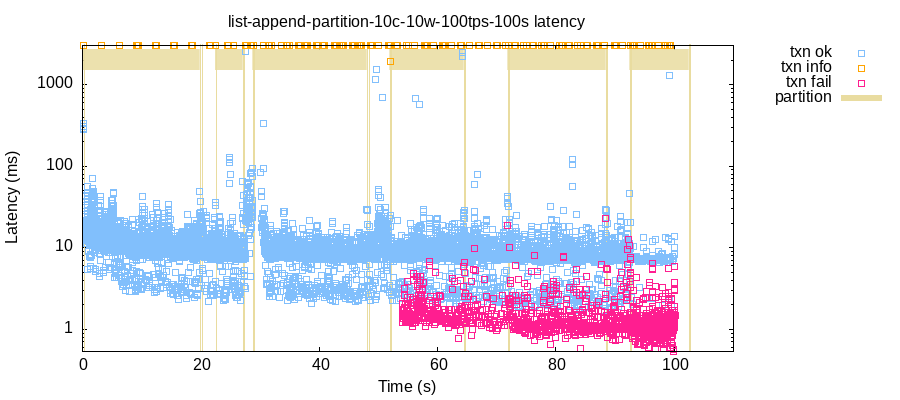
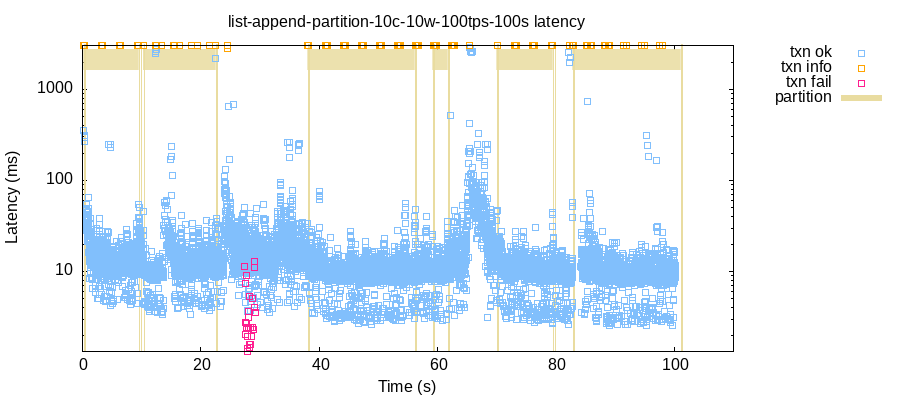
use Jepsen's watchdog to restart SpacetimeDB and client nodes

diff --git a/README.md b/README.md
@@ -147,6 +147,7 @@ Jepsen Test log:
   - latency goes up around the partitions
   - transactions timeout
   - transactions fail
+  - Jepsen's watchdog restarts clients disconnected by the server
 
 ![plot of partition latency raw](docs/images/partition-latency-raw.png)
 
@@ -172,6 +173,22 @@ SpacetimeDB docs on [Reconnection Behavior](https://spacetimedb.com/docs/clients
 > If your connection is interrupted, you may need to create a new DbConnection to re-establish connectivity.
 >
 > We recommend implementing reconnection logic in your application if reliable connectivity is critical.
+
+So the tests use Jepsen's watchdog functionality to periodically check the SpacetimeDB and client node processes for liveness, restarting as necessary:
+
+```clj
+(defn watched-stdb
+  "A stdb with a watchdog to monitor and restart."
+  [version]
+  (let [opts {:running? (fn running? [_test _node]
+                          (cu/daemon-running? pid-file))
+              :interval 1000}
+        stdb (stdb version)]
+    (watchdog/db opts stdb)))
+
+;; Jepsen's watchdog noticing node "n8" is down and needs restarting
+INFO [jepsen watchdog n8] spacetimedb.db.client-node: Starting client-node  n8
+```
 
 ----
 
